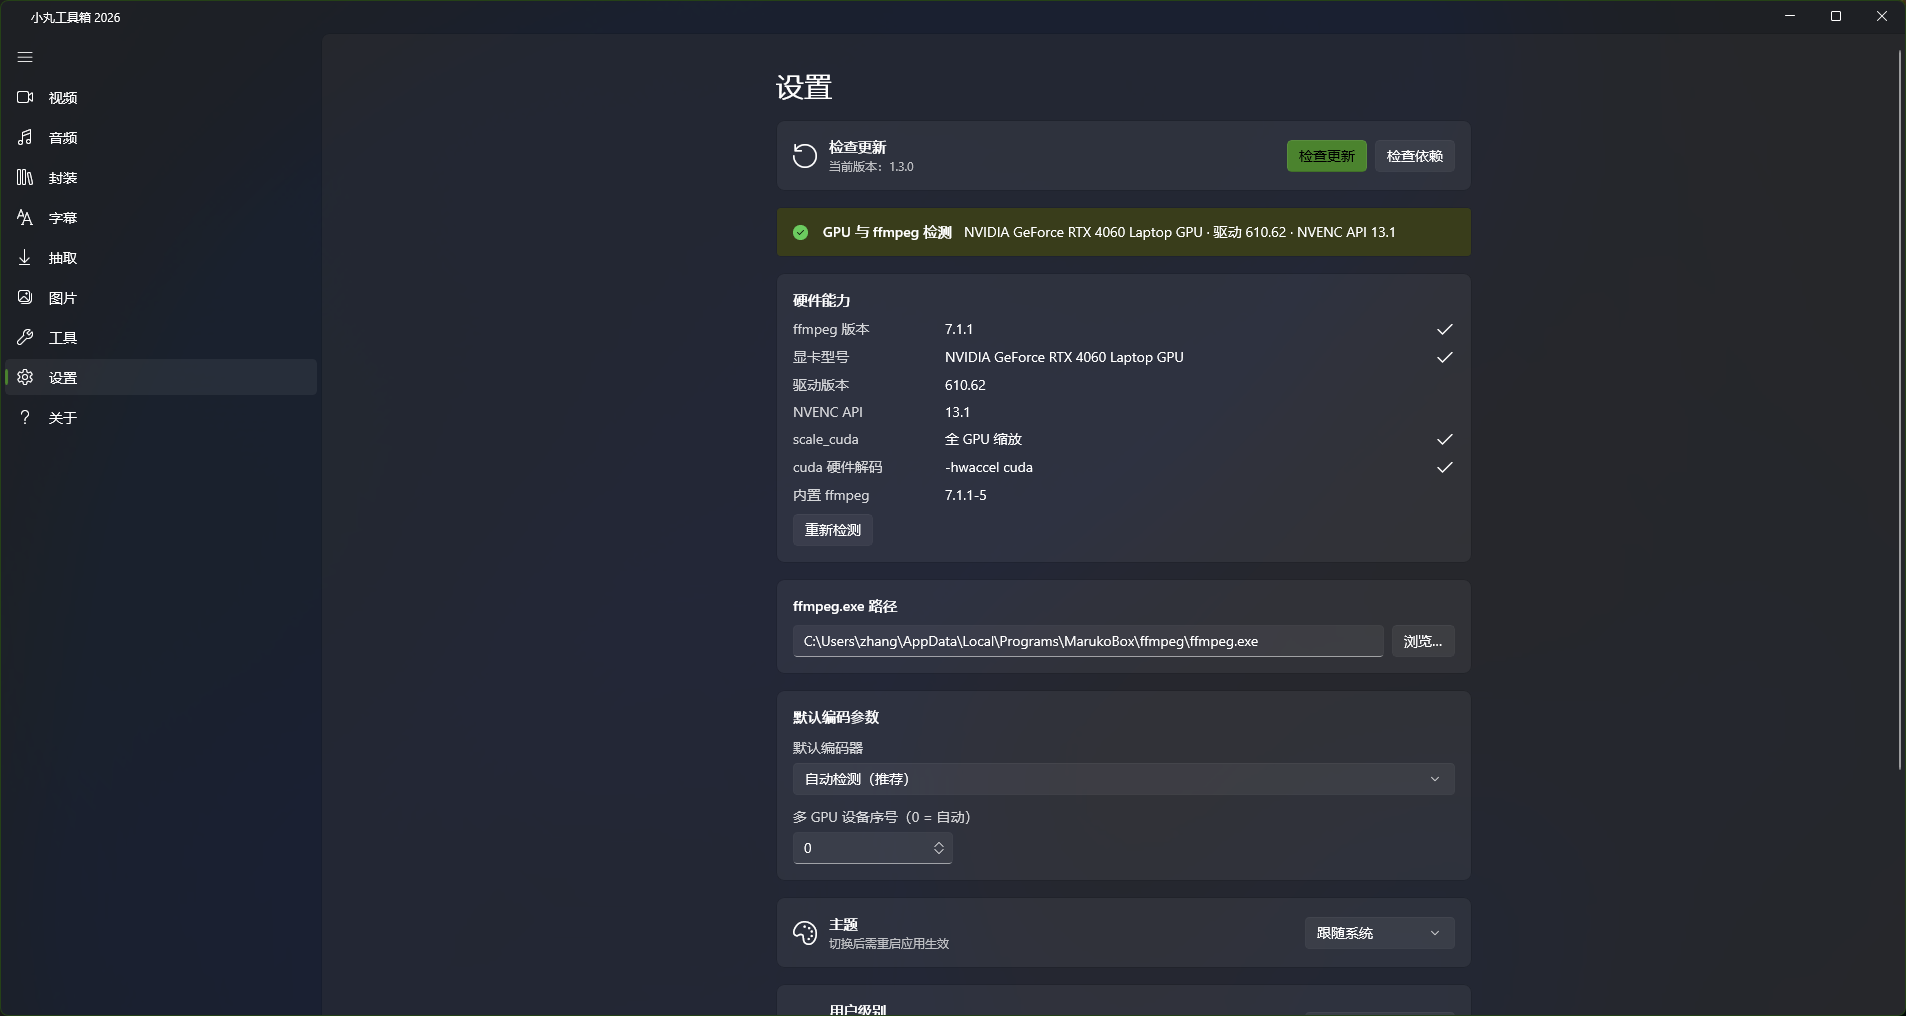
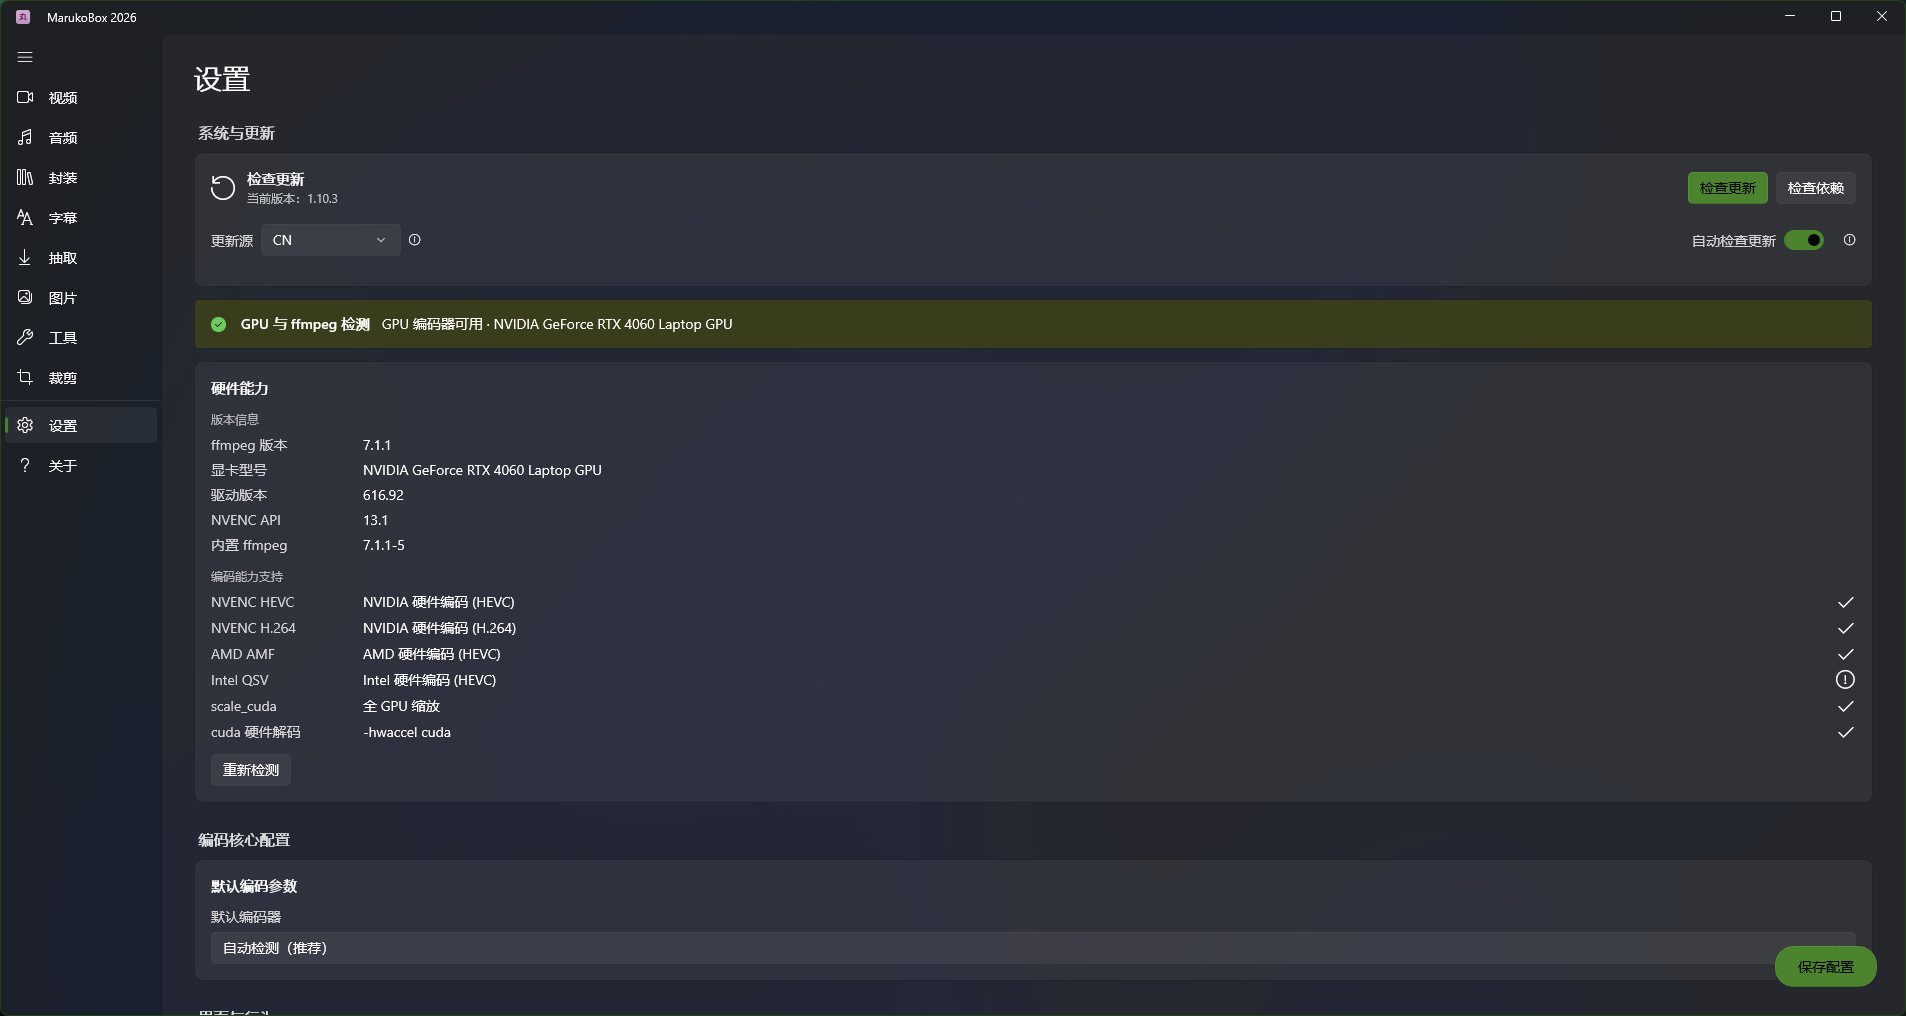
docs: 重写 README 并补全全部 10 页真实界面截图
- 重写 README：修正技术栈（.NET 10 / Windows App SDK 2.4.0 / 多架构）、
  补齐旧版缺失的裁剪/抽取/工具/关于等模块说明、修正 ffmpeg 升级表述
- 接入 master 提供的全部 10 页真实截图（v1.10.3 深色主题）至
  docs/screenshots/，界面预览改为完整画廊

diff --git a/README.md b/README.md
@@ -1,60 +1,79 @@
 # MarukoBox 2026（小丸工具箱）
 
-> 基于经典 [**小丸工具箱**](https://maruko.appinn.me/) 理念重做的现代化版本：保留「简单易用的压制工具箱」核心体验，用 WinUI 3 重构，并加入 GPU 硬件加速与内置 ffmpeg。
+> 基于经典 [**小丸工具箱**](https://maruko.appinn.me/) 重做的现代化版本：保留「简单易用的压制工具箱」核心体验，用 WinUI 3 重构，并加入 GPU 硬件加速与内置 ffmpeg。
 
 基于 [**ffmpeg**](https://ffmpeg.org/) 的 Windows 桌面多媒体处理工具箱，使用 **WinUI 3** + **.NET 10** 构建。
 
 ## 界面预览
 
-| 浅色 | 深色 |
-|---|---|
-| ![视频页（浅色）](docs/screenshots/video-light.png) | ![视频页（深色）](docs/screenshots/video-dark.png) |
-| ![设置页（浅色）](docs/screenshots/settings-light.png) | ![设置页（深色）](docs/screenshots/settings-dark.png) |
+| 视频 | 裁剪 |
+| :---: | :---: |
+| ![](docs/screenshots/video-dark.png) | ![](docs/screenshots/trim-dark.png) |
+| **音频** | **图片** |
+| ![](docs/screenshots/audio-dark.png) | ![](docs/screenshots/image-dark.png) |
+| **字幕** | **抽帧** |
+| ![](docs/screenshots/subtitle-dark.png) | ![](docs/screenshots/extract-dark.png) |
+| **封装** | **工具** |
+| ![](docs/screenshots/mux-dark.png) | ![](docs/screenshots/tools-dark.png) |
+| **设置** | **关于** |
+| ![](docs/screenshots/settings-dark.png) | ![](docs/screenshots/about-dark.png) |
 
-## 功能
+> 以上为全部 10 个页面的真实截图（v1.10.3，深色主题）。浅色主题效果见 `docs/screenshots/*-light.png`。
 
-- **视频**：转码、压制（可配合 GPU 硬件加速）
-- **音频**：提取、转码、轨道处理
-- **图片**：从视频抽帧、格式转换
-- **字幕**：提取、嵌入、格式转换
-- **封装 (Mux)**：音视频流重新封装
-- **内置 ffmpeg**：安装包捆绑 [jellyfin-ffmpeg](https://github.com/jellyfin/jellyfin-ffmpeg) 便携版，开箱即用
-- **检查更新 / 依赖**：软件自身从 GitHub 一键升级；可一键升级内置 ffmpeg（8.x 起带 NVENC API 13.1 门槛，驱动过旧自动拦截；专家级可强制安装任意版本）
-- **主题**：跟随系统 / 浅色 / 深色
-- **保持习惯**：退出时记住编码设置，下次自动恢复
-- **用户分级**：普通 / 高级 / 专家，按级别显示不同复杂度选项（普通级为「低/中/高/非常高」恒定质量四档）
+## 功能一览
+
+| 模块               | 说明                                          |
+| ---------------- | ------------------------------------------- |
+| **视频**           | 转码 / 压制，支持 NVENC / AMF / QSV 硬件加速；批量队列，拖拽添加 |
+| **裁剪**           | 可视化时间轴拖动两端选定起止，实时预览与抽帧                      |
+| **音频**           | 独立音频转码（AAC / Opus / FLAC / MP3 等），支持批量      |
+| **图片**           | 从视频抽帧、图片格式转换（含 WebP）                        |
+| **字幕**           | 抽取 / 嵌入字幕流，或在 srt·ass·vtt 之间转换              |
+| **封装 (Mux)**     | 合并视频 / 音频 / 字幕轨道到指定容器（无损 `-c copy`）         |
+| **抽取 (Extract)** | 从容器中分离视频 / 音频 / 字幕流（无损 `-c copy`）           |
+| **工具**           | 媒体信息查看（ffprobe）：容器与流分析                      |
+| **设置**           | 主题、用户分级、检查更新、一键升级内置 ffmpeg                  |
+| **关于**           | 版本与运行环境信息                                   |
+
+- **内置 ffmpeg**：安装包捆绑 [jellyfin-ffmpeg](https://github.com/jellyfin/jellyfin-ffmpeg) 便携版，开箱即用；设置页可一键升级，升级时做驱动 / NVENC 能力校验（驱动过旧自动拦截，专家级可强制安装任意版本）。
+- **主题**：跟随系统 / 浅色 / 深色。
+- **用户分级**：普通 / 高级 / 专家，按级别显示不同复杂度选项（普通级为「低 / 中 / 高 / 非常高」恒定质量四档）。
+- **习惯保持**：退出时记住编码设置，下次自动恢复。
 
 ## 技术栈
 
-| 项 | 说明 |
-|---|---|
-| UI | WinUI 3 (Windows App SDK) |
-| 运行时 | .NET 10 (net10.0-windows) |
-| 部署 | unpackaged，`WindowsPackageType=None`，自包含 |
-| 安装器 | Inno Setup 6 |
-| 核心引擎 | ffmpeg（内置捆绑 jellyfin-ffmpeg 便携版） |
+| 项    | 说明                                        |
+| ---- | ----------------------------------------- |
+| UI   | WinUI 3（Windows App SDK 2.4）              |
+| 运行时  | .NET 10（`net10.0-windows10.0.26100.0`）    |
+| 目标架构 | x86 / x64 / ARM64                         |
+| 部署   | unpackaged（`WindowsPackageType=None`），自包含 |
+| 安装器  | Inno Setup 6                              |
+| 核心引擎 | ffmpeg（内置捆绑 jellyfin-ffmpeg 便携版）          |
+| MVVM | CommunityToolkit.Mvvm 8.4.2               |
 
 ## 仓库结构
 
-```
+```text
 maruko-box/
-├── MarukoBox/          主程序源码 (WinUI3)
-├── Installer-Inno/     Inno Setup 参数化脚本（一键构建）
+├── MarukoBox/          主程序源码 (WinUI 3)
+├── Installer-Inno/     Inno Setup 脚本 + 构建脚本（一键构建安装包）
 ├── Harness/            开发调试脚手架（服务层冒烟测试）
 ├── third_party/        [gitignore] 内置 ffmpeg 便携版 zip
+├── docs/               图标与界面截图
 └── dist/               [gitignore] 构建产物（安装包 exe）
 ```
 
-> `dist/` 不入库（二进制大文件，走 GitHub Release 分发），可用下方脚本从源码重建。
+> `dist/`、`third_party/`、`payload/` 不入库（二进制大文件，走 GitHub Release 分发），可用下方脚本从源码重建。
 
 ## 构建安装包
 
-需 Windows 10/11 (x64) + [.NET 10 SDK](https://dotnet.microsoft.com/download) + [Inno Setup 6](https://jrsoftware.org/isinfo.php)（`ISCC.exe`）+ PowerShell 7。
+需 Windows 10/11 + [.NET 10 SDK](https://dotnet.microsoft.com/download) + [Inno Setup 6](https://jrsoftware.org/isinfo.php)（`ISCC.exe`）+ PowerShell 7。
 
 ```powershell
 # 把 jellyfin-ffmpeg*portable_win64.zip 放入 third_party/ 后一键构建
 pwsh -File Installer-Inno\build-installer.ps1 -KeepPayload
-# 产物：dist\MarukoBoxSetup-Inno_<版本>.exe（版本号随仓库csproj/iss同步变化）
+# 产物：dist\MarukoBoxSetup-Inno_<版本>.exe（版本号随仓库 csproj / iss 同步变化）
 ```
 
 流程：`dotnet publish`（自包含 unpackaged）→ 解压内置 ffmpeg 进 payload → `ISCC.exe` 编译生成安装包（中文向导、开始菜单快捷方式、卸载注册）。
@@ -75,6 +94,10 @@ unins000.exe /VERYSILENT /SUPPRESSMSGBOXES /NORESTART                     卸载
 1. **内置**：`{app}\ffmpeg\ffmpeg.exe`（默认，可经「设置 → 检查依赖」升级）
 2. **手动配置**：设置页手动指定路径
 3. **PATH**：系统环境变量中的 ffmpeg
+
+## 更新日志
+
+各版本变更见 `Installer-Inno/release-notes-*.md`。
 
 ## 许可证
 
